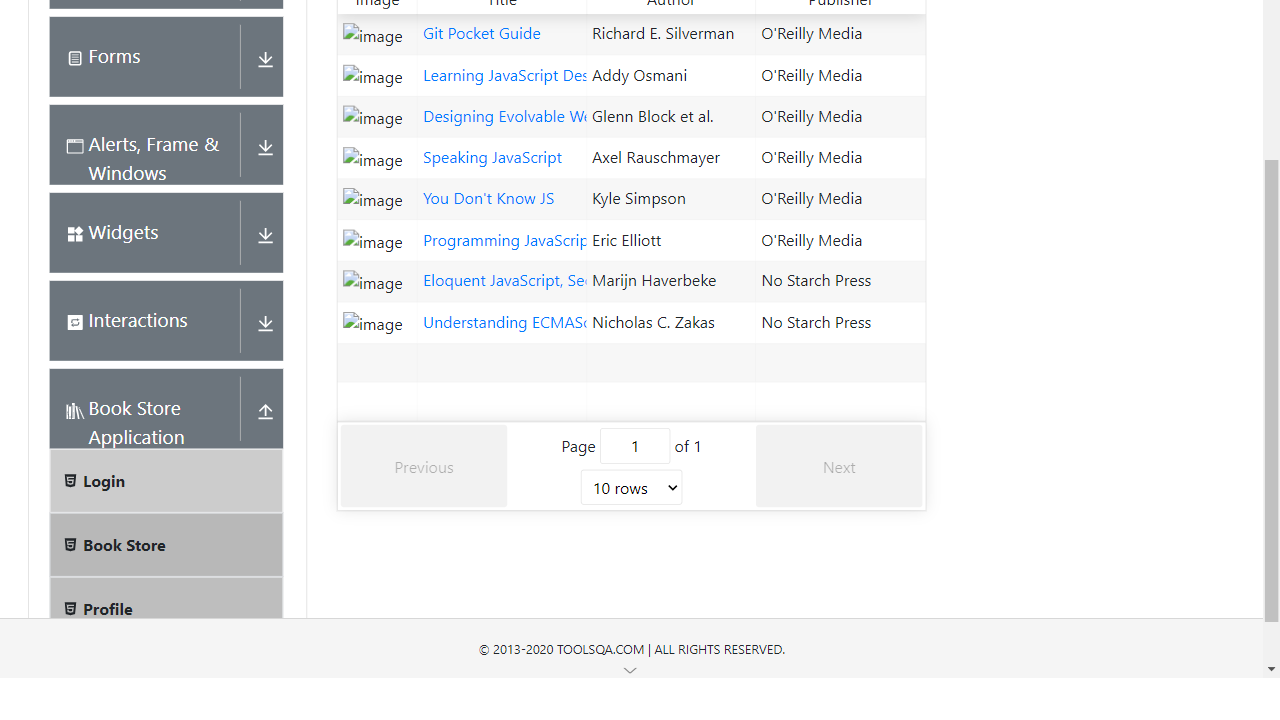
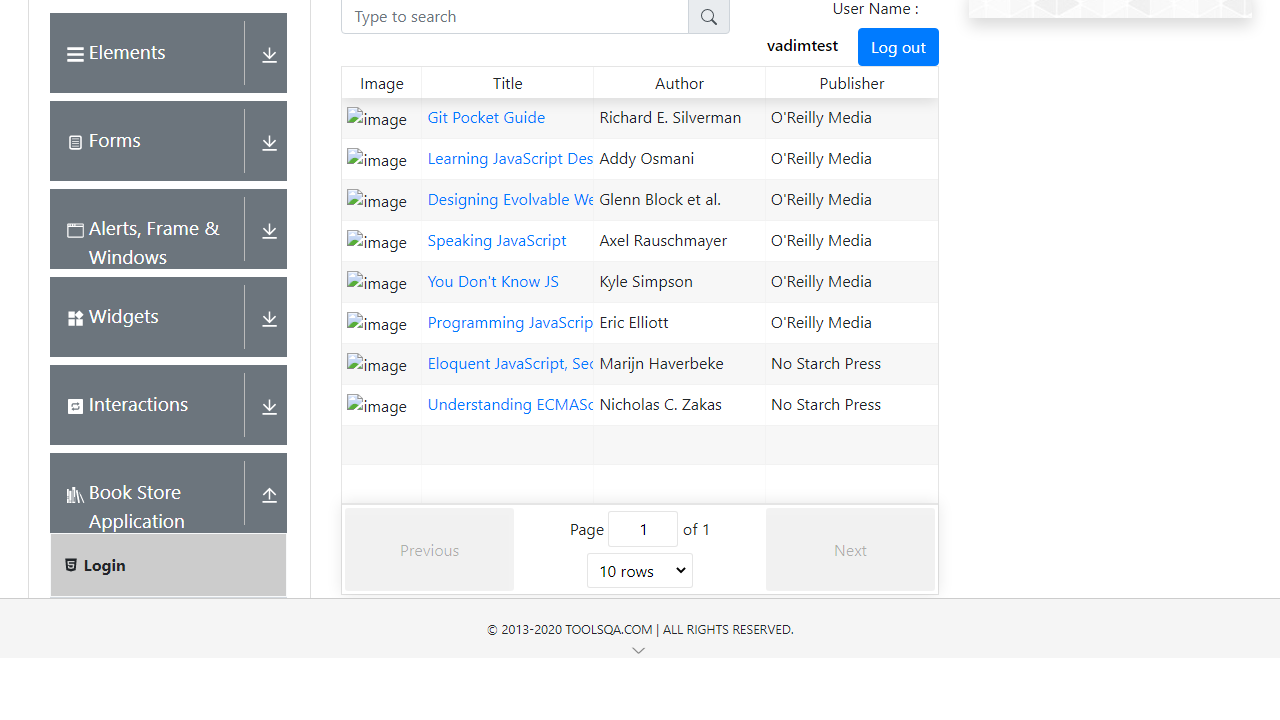
task 3 version for check

diff --git a/Task3/tests/task3.spec.js b/Task3/tests/task3.spec.js
@@ -1,0 +1,88 @@
+// @ts-check
+const { test, expect } = require("@playwright/test");
+
+import * as loginData from "../files/user2.json";
+
+//авторизация из файла
+test.beforeEach(async ({ page }) => {
+  await page.goto("https://demoqa.com/login");
+  await expect(page.locator(".main-header")).toHaveText("Login");
+  await page.getByPlaceholder("UserName").fill(loginData.userName);
+  await page.getByPlaceholder("Password").fill(loginData.password);
+  await page.locator("#login").click();
+  await expect(page.locator(".main-header")).toHaveText("Profile");
+});
+
+test("main", async ({ page, request }) => {
+  const cookiesData = await page.context().cookies();
+  //по какой-то причине подчёркивает всё красным (c и без await, без разницы). только ts ingore помогает, и тест работает норм
+  // @ts-ignore
+  expect(cookiesData.find((c) => c.name == "userID").value).toBeTruthy();
+  // @ts-ignore
+  expect(cookiesData.find((c) => c.name == "userName").value).toBeTruthy();
+  // @ts-ignore
+  expect(cookiesData.find((c) => c.name == "expires").value).toBeTruthy();
+  // @ts-ignore
+  expect(cookiesData.find((c) => c.name == "token").value).toBeTruthy();
+  // @ts-ignore
+  const userID = cookiesData.find((c) => c.name == "userID").value; //сохранённые userID и token
+  // @ts-ignore
+  const token = cookiesData.find((c) => c.name == "token").value;
+
+//заблокировать все картинки
+  await page.route("**/*", (route) => {
+    return route.request().resourceType() === "image"
+      ? route.abort()
+      : route.continue();
+  });
+  const responsePromise = page.waitForResponse(
+    "https://demoqa.com/BookStore/v1/Books"
+  );
+  await page.locator('.text:text-is("Book Store")').click();
+  //сделать скриншот
+  await page.waitForSelector('.action-buttons');
+  await page.screenshot({ path: "files/screenshot.png" });
+  const response = await responsePromise;
+  await expect(response.status()).toBe(200);
+  const responseBody = await response.json();
+  //check if books in response body = books in UI (.action-buttons locator)
+  await expect(page.locator(".action-buttons")).toHaveCount(
+    responseBody.books.length
+  );
+  //заменить количество страниц на 999
+  await page.route(
+    "https://demoqa.com/BookStore/v1/Book?ISBN=*",
+    async (route) => {
+      const response = await route.fetch();
+      let body = await response.text();
+      const searchBody = JSON.parse(body);
+      body = body.replace(searchBody.pages, "999");
+      route.fulfill({
+        response,
+        body,
+        headers: {
+          ...response.headers(),
+        },
+      });
+    }
+  );
+  await page.pause();
+  //кликнуть на рандомную книгу в списке
+  await page
+    .locator(".action-buttons")
+    .nth(Math.floor(Math.random() * (responseBody.books.length - 1)))
+    .click();
+  await expect(page.locator('#pages-wrapper #userName-value')).toHaveText('999');
+
+  //API test
+  const responseAPI = await request.get(`https://demoqa.com/Account/v1/User/${userID}`, {
+      headers:{
+        'Authorization' : 'Bearer '+ token
+      },
+  }); 
+  const responseApiJson = await responseAPI.json();
+  expect(responseAPI.status()).toBe(200);
+  expect(responseApiJson.books.length).toBe(0);
+  expect(responseApiJson.books).toStrictEqual([]);//такой вариант норм? с toBe([]) выдаёт ошибку. на всякий случай вверху проверка с длинной)
+  expect(responseApiJson.username).toBe(loginData.userName);
+});
